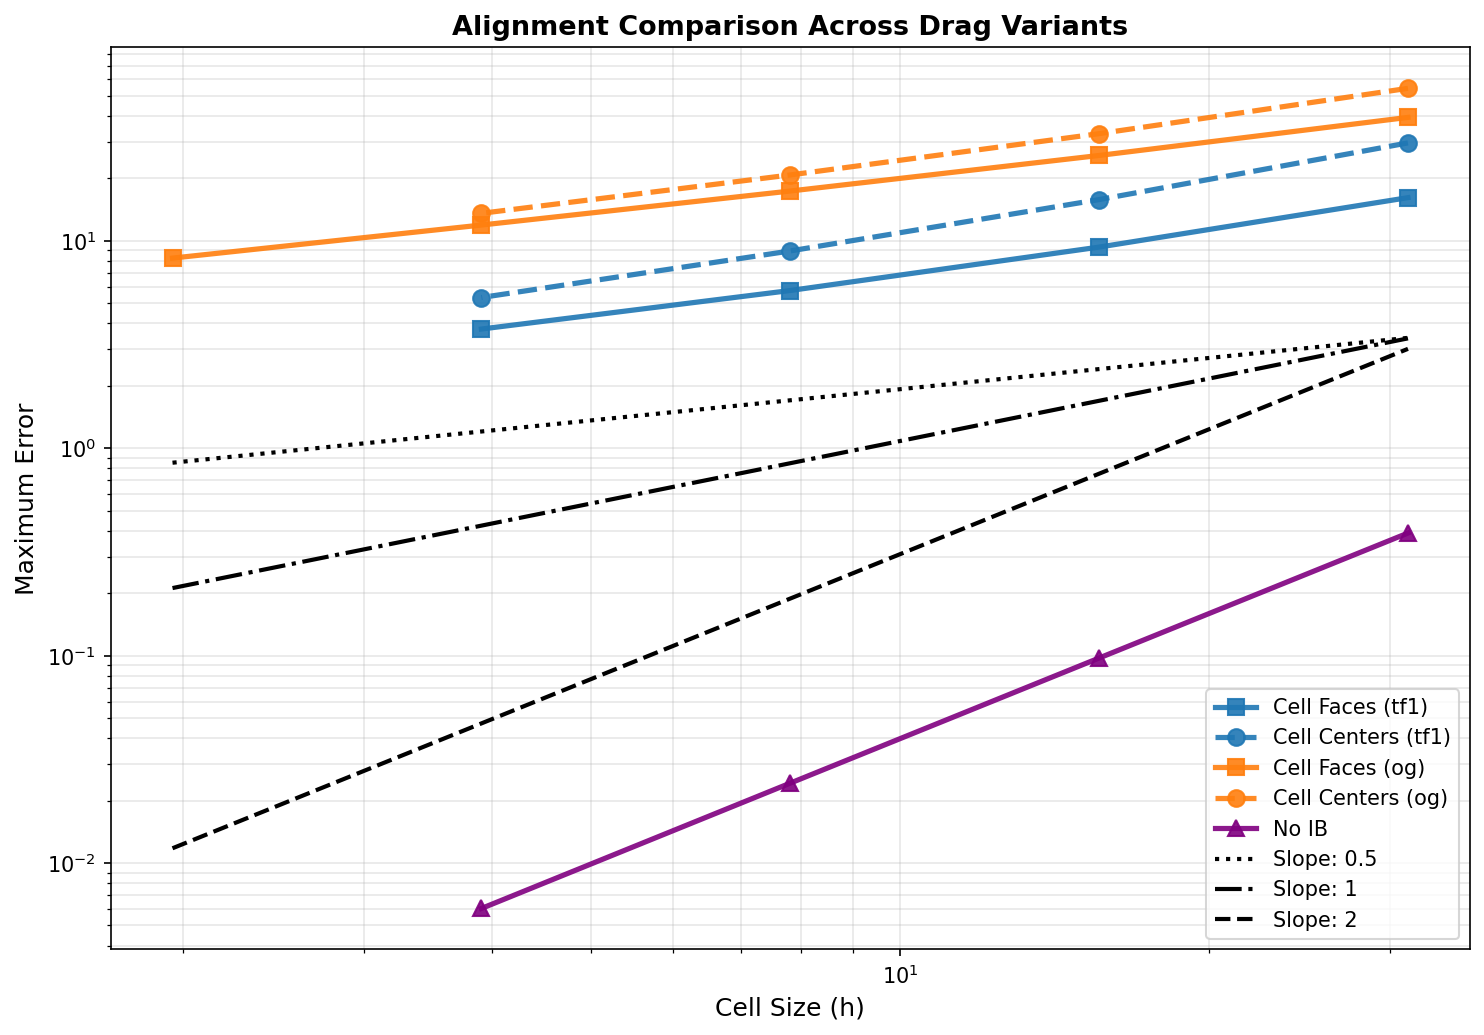
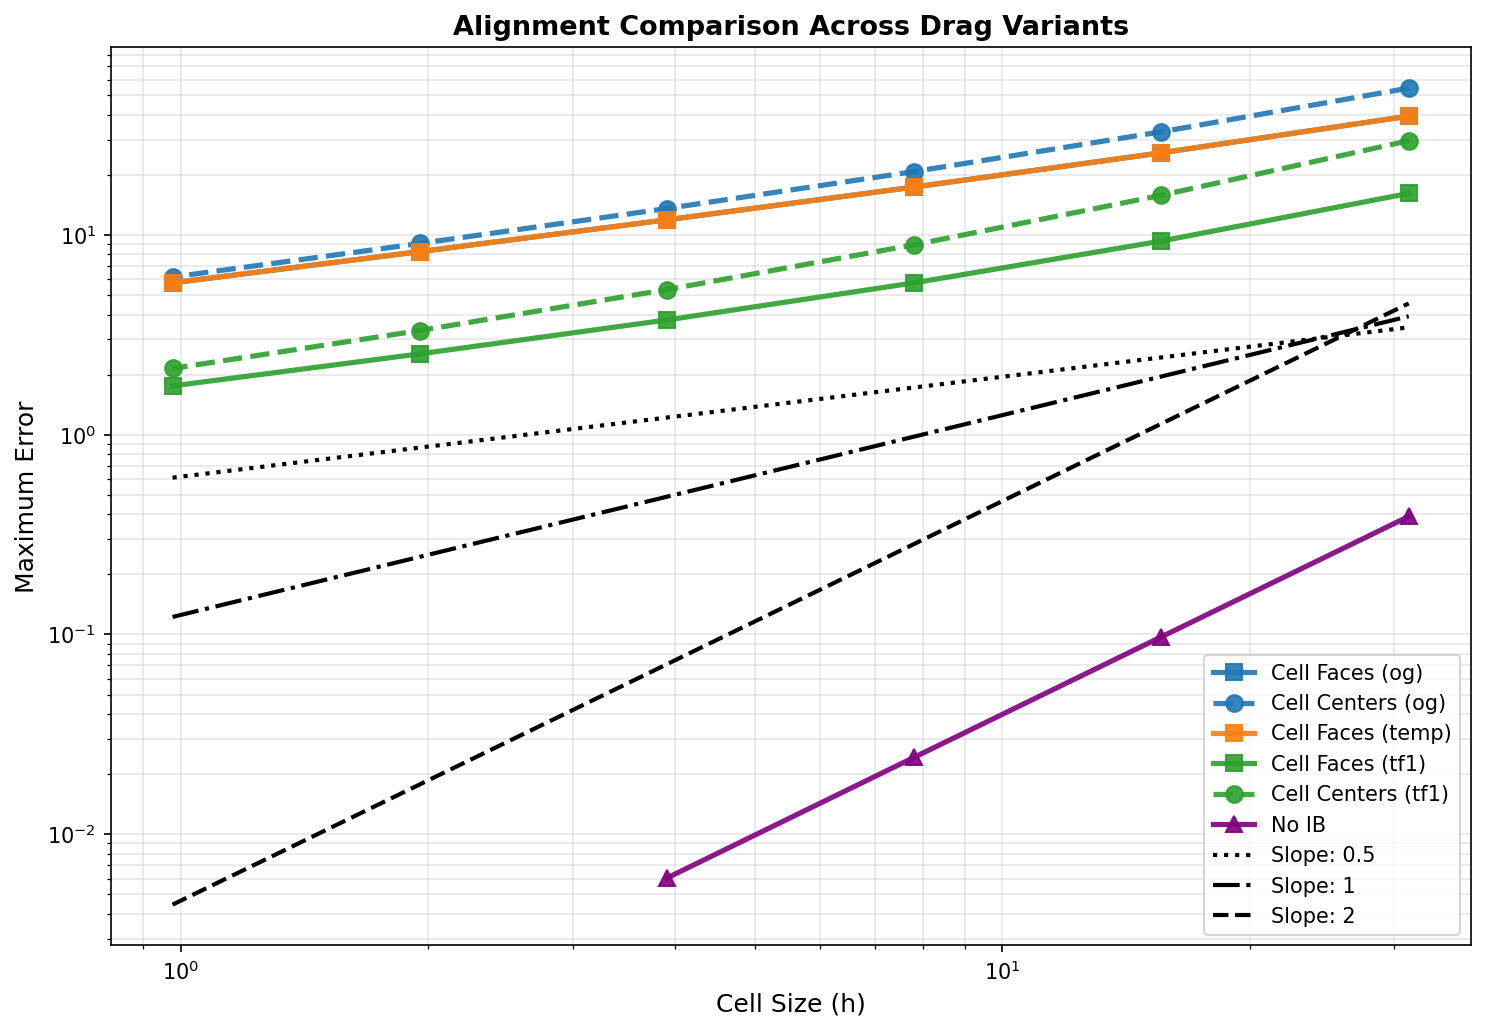
Add 1024 flat results

diff --git a/validation/single_phase_laminar_slanted/python/post_process.py b/validation/single_phase_laminar_slanted/python/post_process.py
@@ -125,12 +125,12 @@ if args.flat:
         # For no-ib cases, use the no-ib naming (no drag variant)
         case_specs = [(f'flat-no-ib-32', 32), (f'flat-no-ib-64', 64), 
                       (f'flat-no-ib-128', 128), (f'flat-no-ib-256', 256), 
-                      (f'flat-no-ib-512', 512)]
+                      (f'flat-no-ib-512', 512), (f'flat-no-ib-1024', 1024)]
     else:
         # For aligned cases, load based on alignment and drag variant
-        case_specs = [(f'{case_prefix}-32', 32), (f'{case_prefix}-64', 64), (f'{case_prefix}-128', 128), (f'{case_prefix}-256', 256), (f'{case_prefix}-512', 512)]
+        case_specs = [(f'{case_prefix}-32', 32), (f'{case_prefix}-64', 64), (f'{case_prefix}-128', 128), (f'{case_prefix}-256', 256), (f'{case_prefix}-512', 512), (f'{case_prefix}-1024', 1024)]
 else:  # slanted
-    case_specs = [(f'{case_prefix}-32', 32), (f'{case_prefix}-64', 64), (f'{case_prefix}-128', 128), (f'{case_prefix}-256', 256), (f'{case_prefix}-512', 512)]
+    case_specs = [(f'{case_prefix}-32', 32), (f'{case_prefix}-64', 64), (f'{case_prefix}-128', 128), (f'{case_prefix}-256', 256), (f'{case_prefix}-512', 512), (f'{case_prefix}-1024', 1024)]
 
 case_paths, case_resolutions, valid_cases = [], [], []
 for case_name, resolution in case_specs:

diff --git a/validation/single_phase_laminar_slanted/python/post_process_drag.py b/validation/single_phase_laminar_slanted/python/post_process_drag.py
@@ -65,7 +65,7 @@ os.makedirs(figureDir, exist_ok=True)
 # Auto-detect available variants in the cases directory
 print('Auto-detecting available drag variants...')
 available_variants = set()
-resolutions = [32, 64, 128, 256, 512]
+resolutions = [32, 64, 128, 256, 512, 1024]
 possible_variants = ['og', 'temp', 'tf1']
 
 for variant in possible_variants:
@@ -124,7 +124,7 @@ except RuntimeError as e:
 # Case discovery and loading
 # ================================================================================
 # Build case specifications to load selected variants
-resolutions = [32, 64, 128, 256, 512]
+resolutions = [32, 64, 128, 256, 512, 1024]
 
 case_paths_dict = {variant: [] for variant in drag_variants}  # Organize by drag variant
 valid_cases_dict = {variant: [] for variant in drag_variants}

diff --git a/validation/single_phase_laminar_slanted/python/post_process_alignment.py b/validation/single_phase_laminar_slanted/python/post_process_alignment.py
@@ -83,7 +83,7 @@ except RuntimeError as e:
 # Case discovery and loading for each alignment
 # ================================================================================
 data_by_alignment = {}
-resolutions = [32, 64, 128, 256, 512]
+resolutions = [32, 64, 128, 256, 512, 1024]
 
 alignments_to_load = ['cf', 'cc']
 if args.no_ib:
